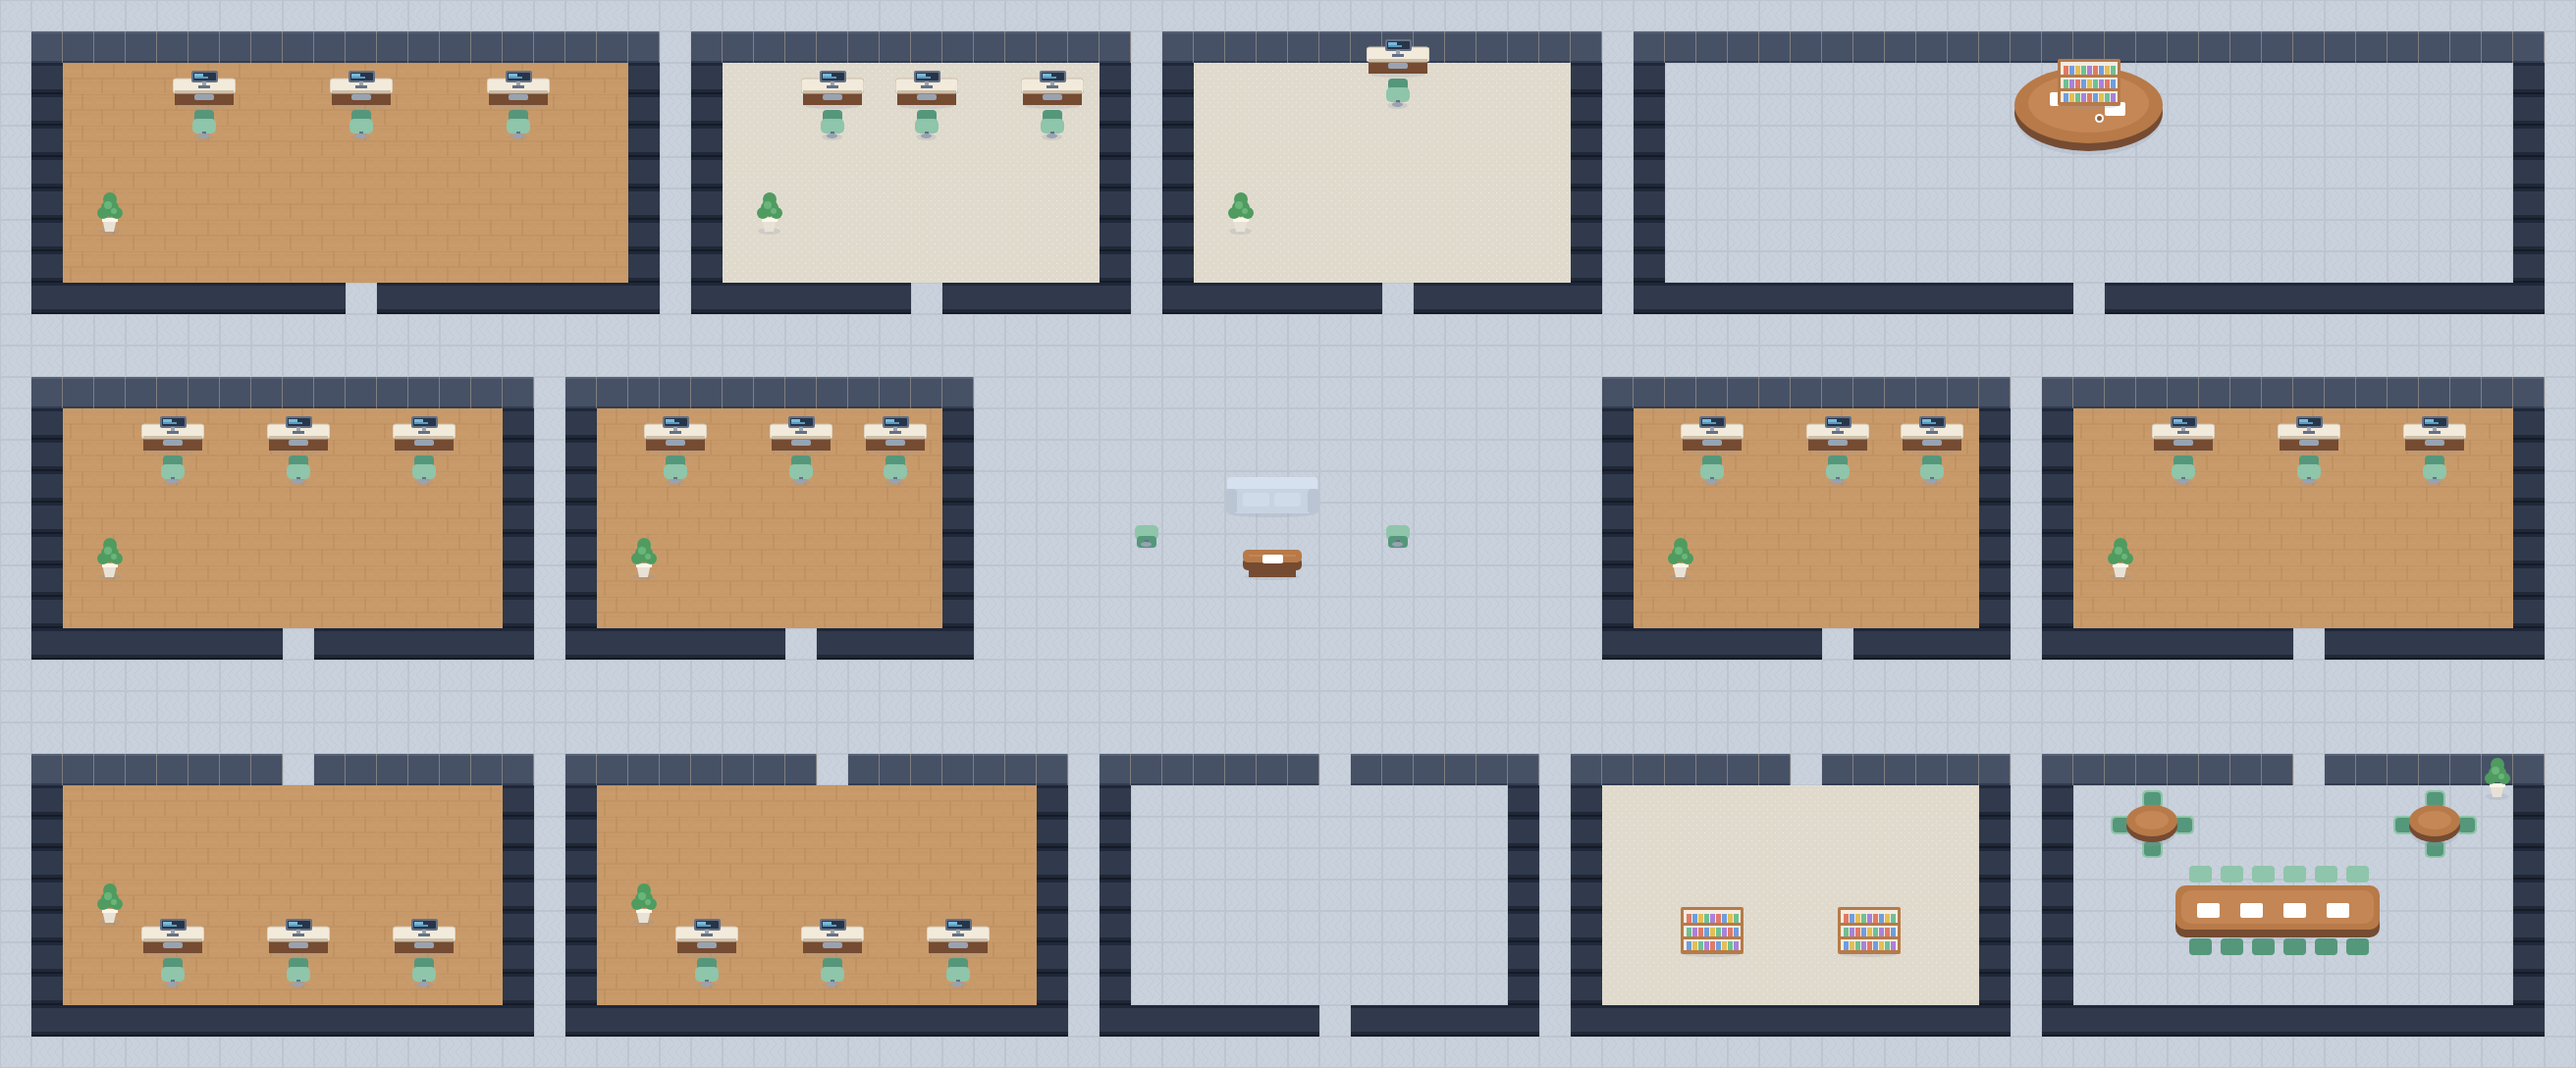
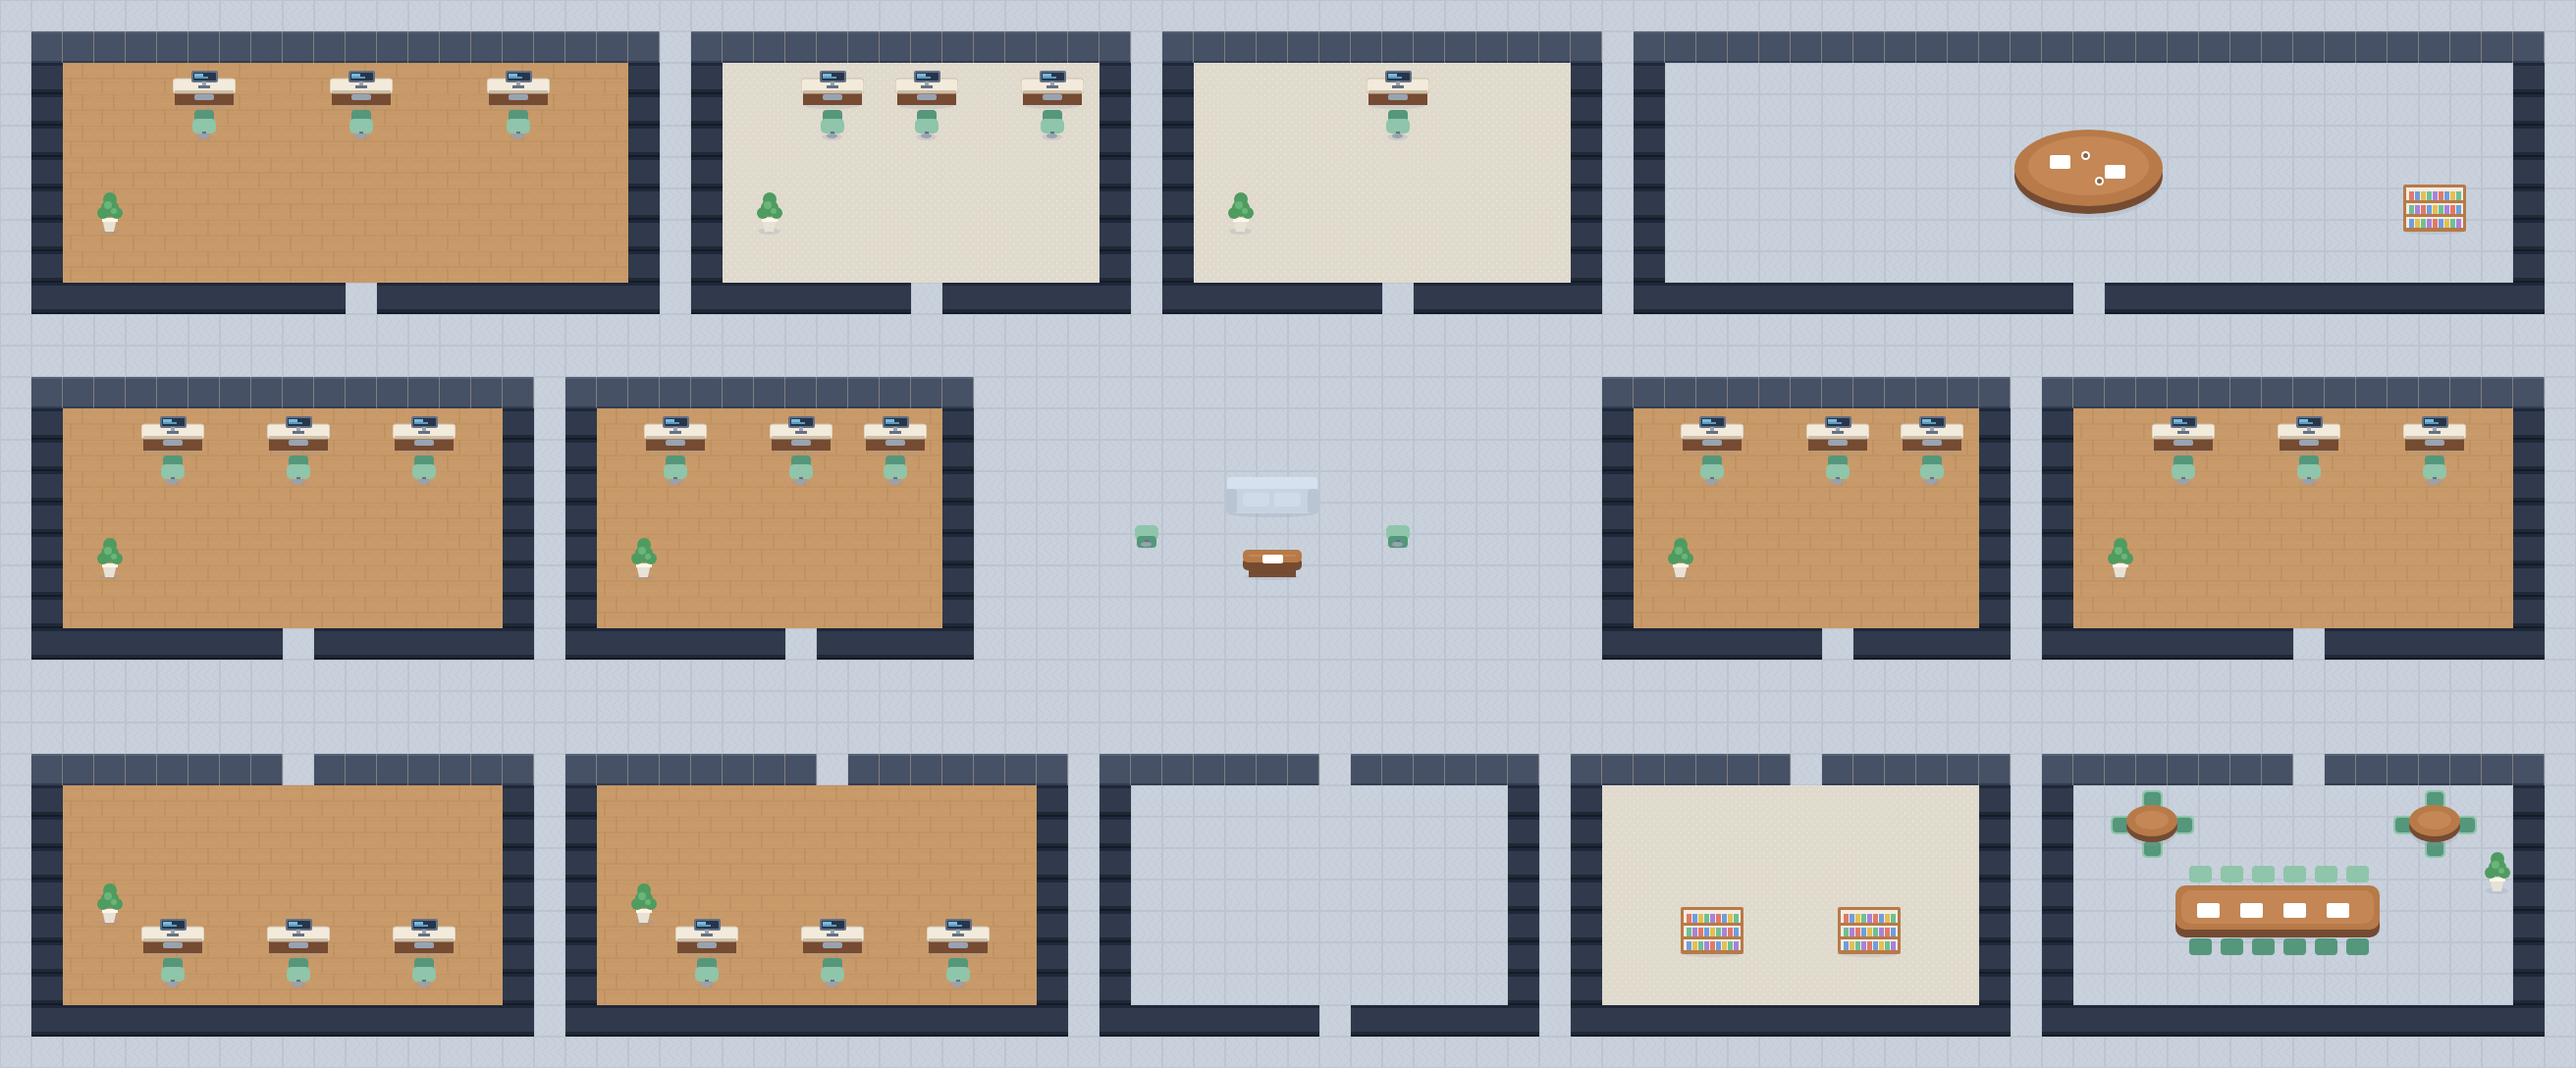
fix(office): 회의 테이블 위치·잡담 스팟 인접성·벽 겹침 등 최종 리뷰 지적사항 수정

diff --git a/Frontend/src/components/office/office-renderer.ts b/Frontend/src/components/office/office-renderer.ts
@@ -89,10 +89,27 @@ const LEISURE_POINTS: ReadonlyArray<{ x: number; y: number; kind: LeisureKind }>
   ...LOUNGE_LEISURE_POINTS.map((point) => ({ ...point, kind: 'lounge' as const })),
 ];
 
-/** 잡담 스팟 — 카페·라운지 각각에서 나란한 두 지점을 한 쌍으로 씁니다 */
+/** anchor 옆에서 걸을 수 있는 이웃 타일 하나를 찾습니다 — 없으면 null */
+function adjacentWalkable(anchor: { x: number; y: number }): { x: number; y: number } | null {
+  for (const [dx, dy] of [[1, 0], [-1, 0], [0, 1], [0, -1]]) {
+    const x = anchor.x + (dx ?? 0);
+    const y = anchor.y + (dy ?? 0);
+    if (!isBlocked(x, y)) return { x, y };
+  }
+  return null;
+}
+
+function chatPairIn(bounds: TileBounds): readonly [{ x: number; y: number }, { x: number; y: number }] | null {
+  const [anchor] = walkablePointsIn(bounds, 1);
+  if (!anchor) return null;
+  const neighbor = adjacentWalkable(anchor);
+  return neighbor ? [anchor, neighbor] : null;
+}
+
+/** 잡담 스팟 — 카페·라운지 각각에서 서로 붙어 있는 두 지점을 한 쌍으로 씁니다 */
 const CHAT_SPOTS: ReadonlyArray<readonly [{ x: number; y: number }, { x: number; y: number }]> =
-  [CAFE_LEISURE_POINTS, LOUNGE_LEISURE_POINTS]
-    .filter((pair): pair is [{ x: number; y: number }, { x: number; y: number }] => pair.length === 2);
+  [cafeZone ? chatPairIn(cafeZone) : null, chatPairIn(LOUNGE_BOUNDS)]
+    .filter((pair): pair is [{ x: number; y: number }, { x: number; y: number }] => pair !== null);
 
 const AMBIENT_CHAT_MIN_MS = 12_000;
 const AMBIENT_CHAT_MAX_MS = 24_000;
@@ -818,7 +835,10 @@ export class OfficeRenderer {
     candidates.splice(firstIndex, 1);
     const b = candidates[Math.floor(Math.random() * candidates.length)];
     const spot = CHAT_SPOTS[Math.floor(Math.random() * CHAT_SPOTS.length)];
-    if (!a || !b || !spot) return;
+    if (!a || !b || !spot) {
+      this.scheduleNextAmbientConversation(now);
+      return;
+    }
 
     a.atLeisure = true;
     b.atLeisure = true;

diff --git a/Frontend/src/components/office/office-staff.ts b/Frontend/src/components/office/office-staff.ts
@@ -57,7 +57,7 @@ export const STAFF_SEATS: readonly OfficeStaffSeat[] = [
   { id: 'designer-junior', sprite: 'designer', seat: { x: 30, y: 31 }, facing: 'up' },
 ];
 
-/** id → 좌석 (렌더러가 백엔드 직원 목록과 맞울 때 씁니다) */
+/** id → 좌석 (렌더러가 백엔드 직원 목록과 맞출 때 씁니다) */
 export const STAFF_SEAT_MAP = new Map<AgentId, OfficeStaffSeat>(
   STAFF_SEATS.map((s) => [s.id, s]),
 );

diff --git a/docs/OPERATIONS.md b/docs/OPERATIONS.md
@@ -104,6 +104,12 @@ VAULT_EMBEDDING_MODEL=nomic-embed-text
 `office-staff.ts`(팀원 좌석)를 고치고, `office-props.json` 의 `staffSeats`
 사본도 같이 맞춘 뒤 아래 명령으로 배경을 다시 만든다.
 
+좌석·구역 좌표를 바꾼 뒤에는 `office-map.json`의 `collisionBlockers`도 자동
+배치된 책상·가구가 실제로 놓이는 자리에 맞춰 손으로 다시 조정해야 할 수
+있다(그려지는 자리와 충돌 영역이 어긋나면 캐릭터가 가구 위에 서 있는 것처럼
+보인다). `office-props.json`의 `items` 배열(장식 가구 좌표)도 `staffSeats`
+사본과 별개로, 레이아웃이 바뀌면 함께 손봐야 한다.
+
 ```powershell
 npm --workspace @ai-company/frontend run map:generate
 npm --workspace @ai-company/frontend run map:validate
@@ -118,6 +124,8 @@ npm --workspace @ai-company/frontend run map:validate
 ```
 
 손그림 원화 버전으로 되돌리려면 `npm --workspace @ai-company/frontend run sprites:reference-characters`를 `sprites` 다음에 실행하세요 (스크립트 자체는 남아있지만 기본 파이프라인에서는 빠졌습니다).
+
+주의: `map:generate`는 의존 작업으로 `npm run sprites`를 실행해 `characters.png`를 절차적 생성 방식으로 처음부터 다시 만든다. 그래서 `sprites:reference-characters`로 손그림 원화로 되돌려 둔 상태에서 `map:generate`를 실행하면 그 설정이 조용히 procedural 스타일로 되돌아간다.
 
 `office-map.json`에서 구역, 좌석, 회의 좌석, 스폰, 충돌 사각형을 수정할 수 있습니다. 빌드는 중복 구역 ID와 맵 바깥 좌표를 자동 차단합니다.
 
